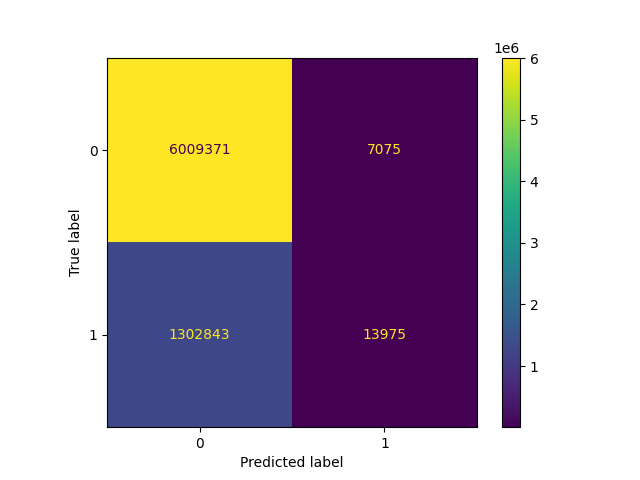
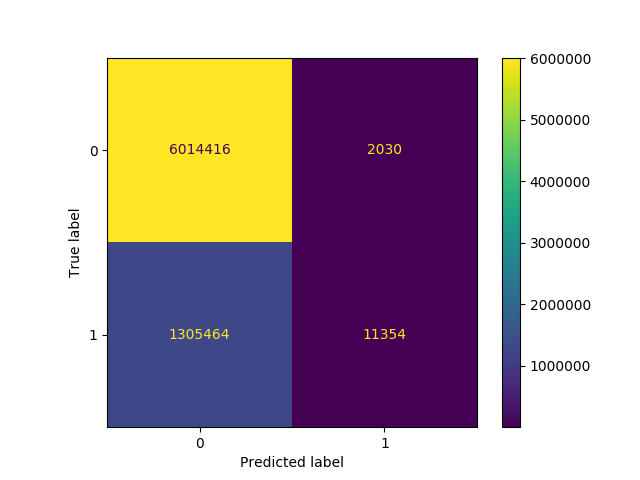
tenet

diff --git a/toptimize/tenet.py b/toptimize/tenet.py
@@ -6,9 +6,10 @@ import torch
 import torch.nn.functional as F
 from torch_geometric.datasets import Planetoid
 import torch_geometric.transforms as T
-from torch_geometric.nn import GCNConv, TENET, GCN4Conv  # noqa
+from torch_geometric.nn import GCNConv, TENET, GCN4Conv, dense  # noqa
 from sklearn.metrics import confusion_matrix, ConfusionMatrixDisplay
 from torch_geometric.utils import to_dense_adj
+from torch_geometric.utils.sparse import dense_to_sparse
 import matplotlib.pyplot as plt
 
 import random
@@ -123,7 +124,7 @@ sorted_gold_Y, sorted_Y_indices = torch.sort(data.y, descending=False)
 sorted_gold_Y = F.one_hot(sorted_gold_Y).float()
 sorted_gold_A = torch.matmul(sorted_gold_Y, sorted_gold_Y.T)
 
-# compare_topology(pred_A, data, cm_filename='main'+str(run))
+compare_topology(pred_A, data, cm_filename='main'+str(run))
 # plot_tsne(prev_x, data.y, 'tsne_0.png')
 # plot_topology(A, data, 'A_original.png')
 # plot_topology(gold_A, data, 'A_gold.png')
@@ -138,6 +139,19 @@ sorted_gold_A = torch.matmul(sorted_gold_Y, sorted_gold_Y.T)
 
 val_accs, test_accs = [], []
 for run in range(1, 5 + 1):
+    temp = to_dense_adj(data.edge_index)[0]
+    print('temp', temp, temp.shape)
+    temp.fill_diagonal_(0)
+    temp = torch.matmul(temp, temp)
+    temp[temp>1]=1
+
+    squared_edge_index, squared_edge_weight = dense_to_sparse(temp)
+    print('squared_edge_index', squared_edge_index, squared_edge_index.shape)
+    input()
+
+    temp = torch.ones_like(temp)
+    all_edge_index, all_edge_weight = dense_to_sparse(temp)
+
     class Net(torch.nn.Module):
         def __init__(self):
             super(Net, self).__init__()
@@ -146,7 +160,7 @@ for run in range(1, 5 + 1):
             self.tenet1 = TENET()
             self.conv2 = GCNConv(16, dataset.num_classes, cached=True,
                                 normalize=not args.use_gdc)
-            # self.tenet2 = TENET()
+            self.tenet2 = TENET()
 
         def forward(self):
             x, edge_index, edge_weight = data.x, data.edge_index, data.edge_attr
@@ -154,17 +168,26 @@ for run in range(1, 5 + 1):
             edge_score_1, edge_label_1 = self.tenet1(x, edge_index, edge_weight)
             x = F.dropout(x, training=self.training)
             x = self.conv2(x, edge_index, edge_weight)
-            # edge_score_2, edge_label_2 = self.tenet2(final, edge_index, edge_weight)
+            edge_score_2, edge_label_2 = self.tenet2(x, squared_edge_index, squared_edge_weight)
             return x, F.log_softmax(x, dim=1)
 
-    model, data = Net().to(device), data.to(device)
+        def infer(self):
+            x, edge_index, edge_weight = data.x, data.edge_index, data.edge_attr
+            x = F.relu(self.conv1(x, edge_index, edge_weight))
+            edge_score_1 = self.tenet1.get_edge_score(x, all_edge_index)
+            x = self.conv2(x, edge_index, edge_weight)
+            edge_score_2 = self.tenet2.get_edge_score(x, all_edge_index)
+            return edge_score_1, edge_score_2
+
+
+    input('Model Loading'+str('='*40))
+    model = Net().to(device)
     optimizer = torch.optim.Adam([
         dict(params=model.conv1.parameters(), weight_decay=5e-4),
         dict(params=model.conv2.parameters(), weight_decay=0),
         dict(params=model.tenet1.parameters(), weight_decay=5e-4),
-        # dict(params=model.tenet2.parameters(), weight_decay=5e-4),
+        dict(params=model.tenet2.parameters(), weight_decay=5e-4),
     ], lr=0.01)
-    input('Model Loading'+str('='*40))
     print('Model\n', model, '\nOptimizer\n', optimizer)
     print('Model Parameterers')
     for name, param in model.named_parameters():
@@ -192,17 +215,22 @@ for run in range(1, 5 + 1):
     def distillation():
         model.eval()
         x, logits = model()
-        new_edge = model.tenet1.cache["new_edge"]
-        new_edge = new_edge[:,:]
-        print('new_edge', new_edge, new_edge.shape)
-        new_edge_temp1 = new_edge[0].unsqueeze(0)
-        new_edge_temp2 = new_edge[1].unsqueeze(0)
-        new_edge_homo = torch.cat((new_edge_temp2, new_edge_temp1), dim=0)
-        print('new_edge_homo', new_edge_homo, new_edge_homo.shape)
-        data.edge_index = torch.cat([data.edge_index, new_edge], dim=1)
+
+        edge_score_1, edge_score_2 = model.infer()
+        edge_score = edge_score_1 + 0.1 * edge_score_2
+        print('edge_score_1', edge_score_1, edge_score_1.shape)
+        print('edge_score_2', edge_score_2, edge_score_2.shape)
+        print('edge_score', edge_score, edge_score.shape)
+        edge_mask = edge_score > 15
+        new_edge_index = all_edge_index[:,edge_mask]
+        print('new_edge_index', new_edge_index, new_edge_index.shape)
+
+        prev_num_edges = data.num_edges
+        data.edge_index = new_edge_index
+        print('prev_num_edges', prev_num_edges)
         print('data.num_edges', data.num_edges)
-        data.edge_index = torch.cat([data.edge_index, new_edge_homo], dim=1)
-        print('data.num_edges', data.num_edges)
+        print('edge len difference', data.num_edges-prev_num_edges)
+
         pred = logits.max(1)[1]
         Y = F.one_hot(pred).float()
         YYT = torch.matmul(Y, Y.T)
@@ -225,7 +253,6 @@ for run in range(1, 5 + 1):
     test_accs.append(test_acc)
 
     prev_x, prev_logits, YYT = distillation()
-    # TODO here make new topology based on the infer
 
     A_temp = to_dense_adj(data.edge_index)[0]
     A_temp.fill_diagonal_(1)
@@ -234,7 +261,7 @@ for run in range(1, 5 + 1):
     A = A_temp
 
     compare_topology(A_temp, data, cm_filename='main'+str(run))
-    plot_tsne(prev_x, data.y, 'tsne_gold.png')
+    # plot_tsne(prev_x, data.y, 'tsne_gold.png')
     plot_sorted_topology_with_gold_topology(A_temp, gold_A, data, 'A_sorted_original_with_gold_'+str(run)+'.png', sorting=True)
 
 # Analytics
